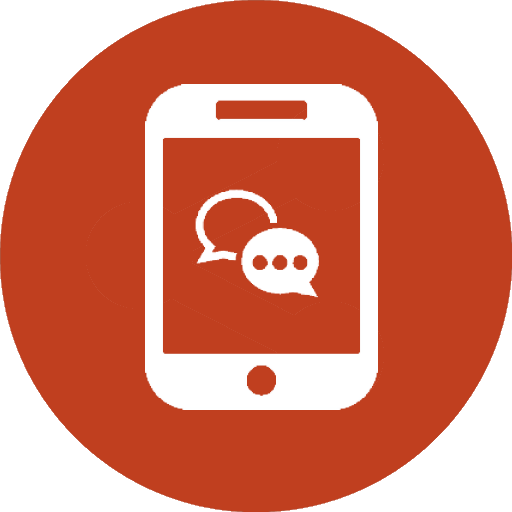
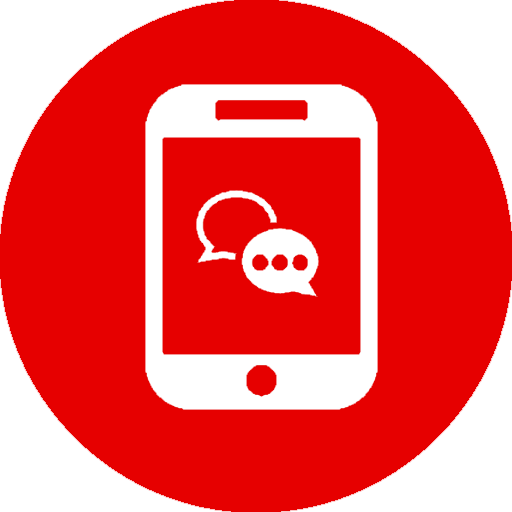
done

diff --git a/webproject/public_html/CSS/contactpage.css b/webproject/public_html/CSS/contactpage.css
@@ -133,7 +133,7 @@ input[type=text], select, textarea {
 }
 
 input[type=submit] {
-    background-color: red;
+    background-color: #e60000;
     color: white;
     padding: 12px 20px;
     border: none;
@@ -157,7 +157,7 @@ input[type=submit]:hover {
 }
 .footer{
     width: 100%;
-    background-color: #C03F1F;
+    background-color: #e60000;
     height: 60px;
     bottom:0;
     left:0;
